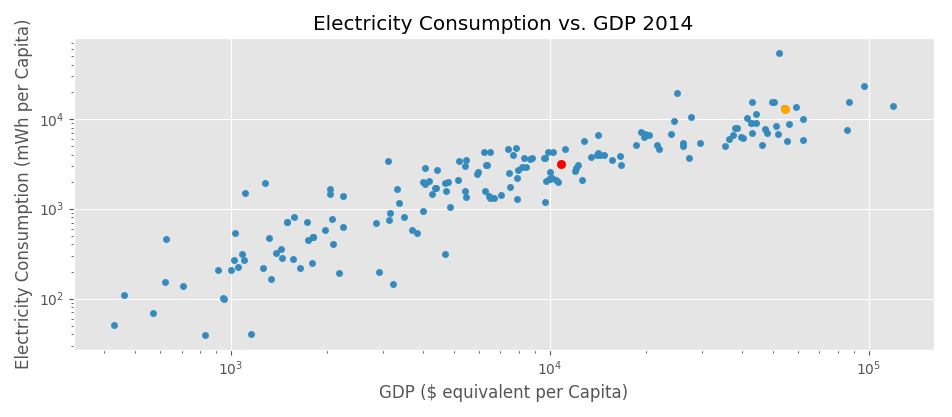
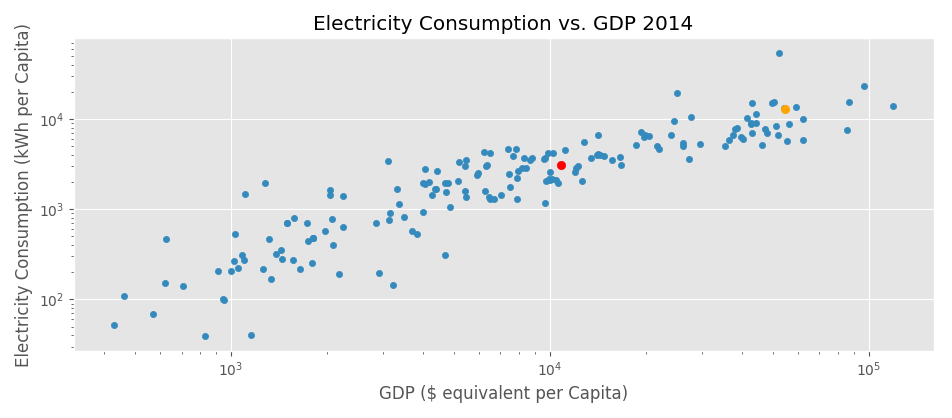
update plot axis labels (change mWh to kWh)

diff --git a/essay1/336_data_essay1.py b/essay1/336_data_essay1.py
@@ -96,7 +96,7 @@ def vis_gdp_elec(gdp, elec):
     # plot main df
     ax = df.plot(kind='scatter', x='GDP($) per Capita', y='kWh per Capita', loglog=True,
                  title='Electricity Consumption vs. GDP 2014')
-    ax.set_ylabel("Electricity Consumption (mWh per Capita)")
+    ax.set_ylabel("Electricity Consumption (kWh per Capita)")
     ax.set_xlabel("GDP ($ equivalent per Capita)")
     # plot highlighted data points
     ax.scatter(df['GDP($) per Capita']['World'], df['kWh per Capita']['World'],
@@ -109,6 +109,7 @@ def vis_gdp_elec(gdp, elec):
     print(p_val)
     # show result
     plt.show()
+    save_png(ax, "elec_gdp.png")
     return ax
 
 
@@ -120,7 +121,7 @@ def vis_elec_dem(elec, dem):
     # plot main df
     ax = df.plot(kind='scatter', x='Democracy Level', y='kWh per Capita',
                  title='Electricity Consumption vs. Democracy Level 2014', logy=True)
-    ax.set_ylabel("Electricity Consumption (mWh per Capita)")
+    ax.set_ylabel("Electricity Consumption (kWh per Capita)")
     ax.set_xlabel("Democracy Level (Polity2 Score)")
     # plot highlighted data points
     ax.scatter(df['Democracy Level']['United States'], df['kWh per Capita']['United States'],
@@ -128,6 +129,7 @@ def vis_elec_dem(elec, dem):
     plt.interactive(False)
     # show result
     plt.show()
+    save_png(ax, "elec_dem.png")
     return ax
 
 
